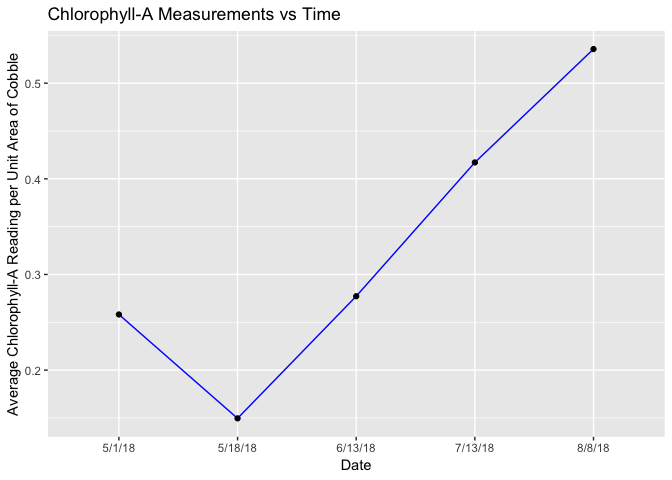
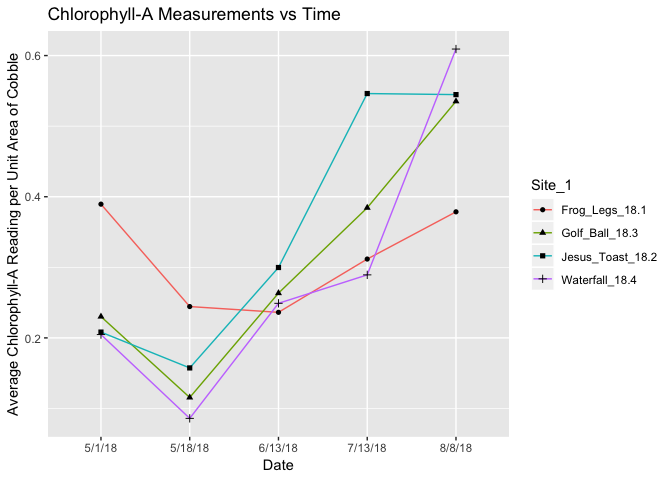
knitting

diff --git a/SRF-2018-Code.md b/SRF-2018-Code.md
@@ -53,18 +53,12 @@ ChlA_Data_Porter <-
 
     ## Warning: Duplicated column names deduplicated: 'Site' => 'Site_1' [4]
 
-    ## Warning in rbind(names(probs), probs_f): number of columns of result is not
-    ## a multiple of vector length (arg 2)
-
-    ## Warning: 1 parsing failure.
-    ## row # A tibble: 1 x 5 col     row col        expected actual                       file              expected   <int> <chr>      <chr>    <chr>                        <chr>             actual 1    94 Volume Ad… a double added 5 mL water after Chl-… 'ChlA-Data/ChlA-… file # A tibble: 1 x 5
-
 ``` r
 ChlA_Data_Porter
 ```
 
     ## # A tibble: 72 x 15
-    ## # Groups:   Date_collected, Site_1 [21]
+    ## # Groups:   Date_collected, Site_1 [20]
     ##    Site  Date_collected Date_processed Site_1 `Cobble#_SID` `Pool/Riffle`
     ##    <chr> <chr>          <chr>          <chr>          <dbl> <chr>        
     ##  1 Port… 5/1/18         5/2/18         Frog_…             1 riffle       
@@ -87,28 +81,44 @@ Summarized ChlA Data
 
 ``` r
 Summarized_ChlA_Data <- ChlA_Data_Porter %>%
-  group_by(Date_collected) %>%
+  group_by(Date_collected, Site_1) %>%
   summarise(mean_ChlA_area = mean(Chla_area))
 Summarized_ChlA_Data
 ```
 
-    ## # A tibble: 5 x 2
-    ##   Date_collected mean_ChlA_area
-    ##   <chr>                   <dbl>
-    ## 1 5/1/18                  0.258
-    ## 2 5/18/18                 0.150
-    ## 3 6/13/18                 0.277
-    ## 4 7/13/18                 0.417
-    ## 5 8/8/18                  0.536
+    ## # A tibble: 20 x 3
+    ## # Groups:   Date_collected [?]
+    ##    Date_collected Site_1           mean_ChlA_area
+    ##    <chr>          <chr>                     <dbl>
+    ##  1 5/1/18         Frog_Legs_18.1           0.389 
+    ##  2 5/1/18         Golf_Ball_18.3           0.230 
+    ##  3 5/1/18         Jesus_Toast_18.2         0.208 
+    ##  4 5/1/18         Waterfall_18.4           0.205 
+    ##  5 5/18/18        Frog_Legs_18.1           0.244 
+    ##  6 5/18/18        Golf_Ball_18.3           0.116 
+    ##  7 5/18/18        Jesus_Toast_18.2         0.157 
+    ##  8 5/18/18        Waterfall_18.4           0.0860
+    ##  9 6/13/18        Frog_Legs_18.1           0.236 
+    ## 10 6/13/18        Golf_Ball_18.3           0.263 
+    ## 11 6/13/18        Jesus_Toast_18.2         0.300 
+    ## 12 6/13/18        Waterfall_18.4           0.249 
+    ## 13 7/13/18        Frog_Legs_18.1           0.312 
+    ## 14 7/13/18        Golf_Ball_18.3           0.384 
+    ## 15 7/13/18        Jesus_Toast_18.2         0.546 
+    ## 16 7/13/18        Waterfall_18.4           0.289 
+    ## 17 8/8/18         Frog_Legs_18.1           0.379 
+    ## 18 8/8/18         Golf_Ball_18.3           0.535 
+    ## 19 8/8/18         Jesus_Toast_18.2         0.545 
+    ## 20 8/8/18         Waterfall_18.4           0.609
 
 Plotting ChlA vs Time
 ---------------------
 
 ``` r
 ChlA_Graph <- Summarized_ChlA_Data %>%
-  ggplot(aes(x = Date_collected, y = mean_ChlA_area, group = 1)) +
-  geom_line(color = "blue") +
-  geom_point() +
+  ggplot(aes(x = Date_collected, y = mean_ChlA_area)) +
+  geom_line(aes(group = Site_1, color = Site_1)) +
+  geom_point(aes(shape = Site_1)) +
   labs(x = "Date", y = "Average Chlorophyll-A Reading per Unit Area of Cobble") +
   ggtitle("Chlorophyll-A Measurements vs Time")
 ChlA_Graph
@@ -167,31 +177,41 @@ Summarizing AFD Data
 ``` r
 Summarized_AFD_Data <- AFD_Data_Porter %>%
   filter(!AFD_Weight_g == "NA") %>%
-  group_by(Date_collected) %>%
+  group_by(Date_collected, Site_1) %>%
   summarise(mean_diff = mean(Difference))
 Summarized_AFD_Data
 ```
 
-    ## # A tibble: 5 x 2
-    ##   Date_collected mean_diff
-    ##   <chr>              <dbl>
-    ## 1 5/1/18           0.00269
-    ## 2 5/18/18          0.00249
-    ## 3 6/13/18          0.00323
-    ## 4 7/13/18          0.00475
-    ## 5 8/8/18           0.00361
+    ## # A tibble: 21 x 3
+    ## # Groups:   Date_collected [?]
+    ##    Date_collected Site_1           mean_diff
+    ##    <chr>          <chr>                <dbl>
+    ##  1 5/1/18         Frog_Legs_18.1     0.004  
+    ##  2 5/1/18         Golf_Ball_18.3     0.00222
+    ##  3 5/1/18         Jesus_Toast_18.2   0.00228
+    ##  4 5/1/18         Waterfall_18.4     0.00225
+    ##  5 5/18/18        Frog_Legs_18.1     0.00288
+    ##  6 5/18/18        Golf_Ball_18.3     0.0019 
+    ##  7 5/18/18        Jesus_Toast_18.2   0.00282
+    ##  8 5/18/18        Waterfall_18.4     0.00238
+    ##  9 6/13/18        Frog_Legs_18.1     0.0018 
+    ## 10 6/13/18        Golf_Ball_18.3     0.00267
+    ## # ... with 11 more rows
 
 Plotting AFD vs Time
 --------------------
 
 ``` r
 AFD_Graph <- Summarized_AFD_Data %>%
-  ggplot(aes(x = Date_collected, y = mean_diff, group = 1)) +
-  geom_line(color = "blue") +
-  geom_point() +
+  ggplot(aes(x = Date_collected, y = mean_diff)) +
+  geom_line(aes(group = Site_1, color = Site_1)) +
+  geom_point(aes(shape = Site_1)) +
   labs(x = "Date", y = "Average Chlorophyll Mass Collected per Cobble") +
   ggtitle("Ash Free Dry Mass Measurements vs Time")
 AFD_Graph
 ```
 
 ![](SRF-2018-Code_files/figure-markdown_github/unnamed-chunk-7-1.png)
+
+Dissolved Oxygen Data
+=====================
